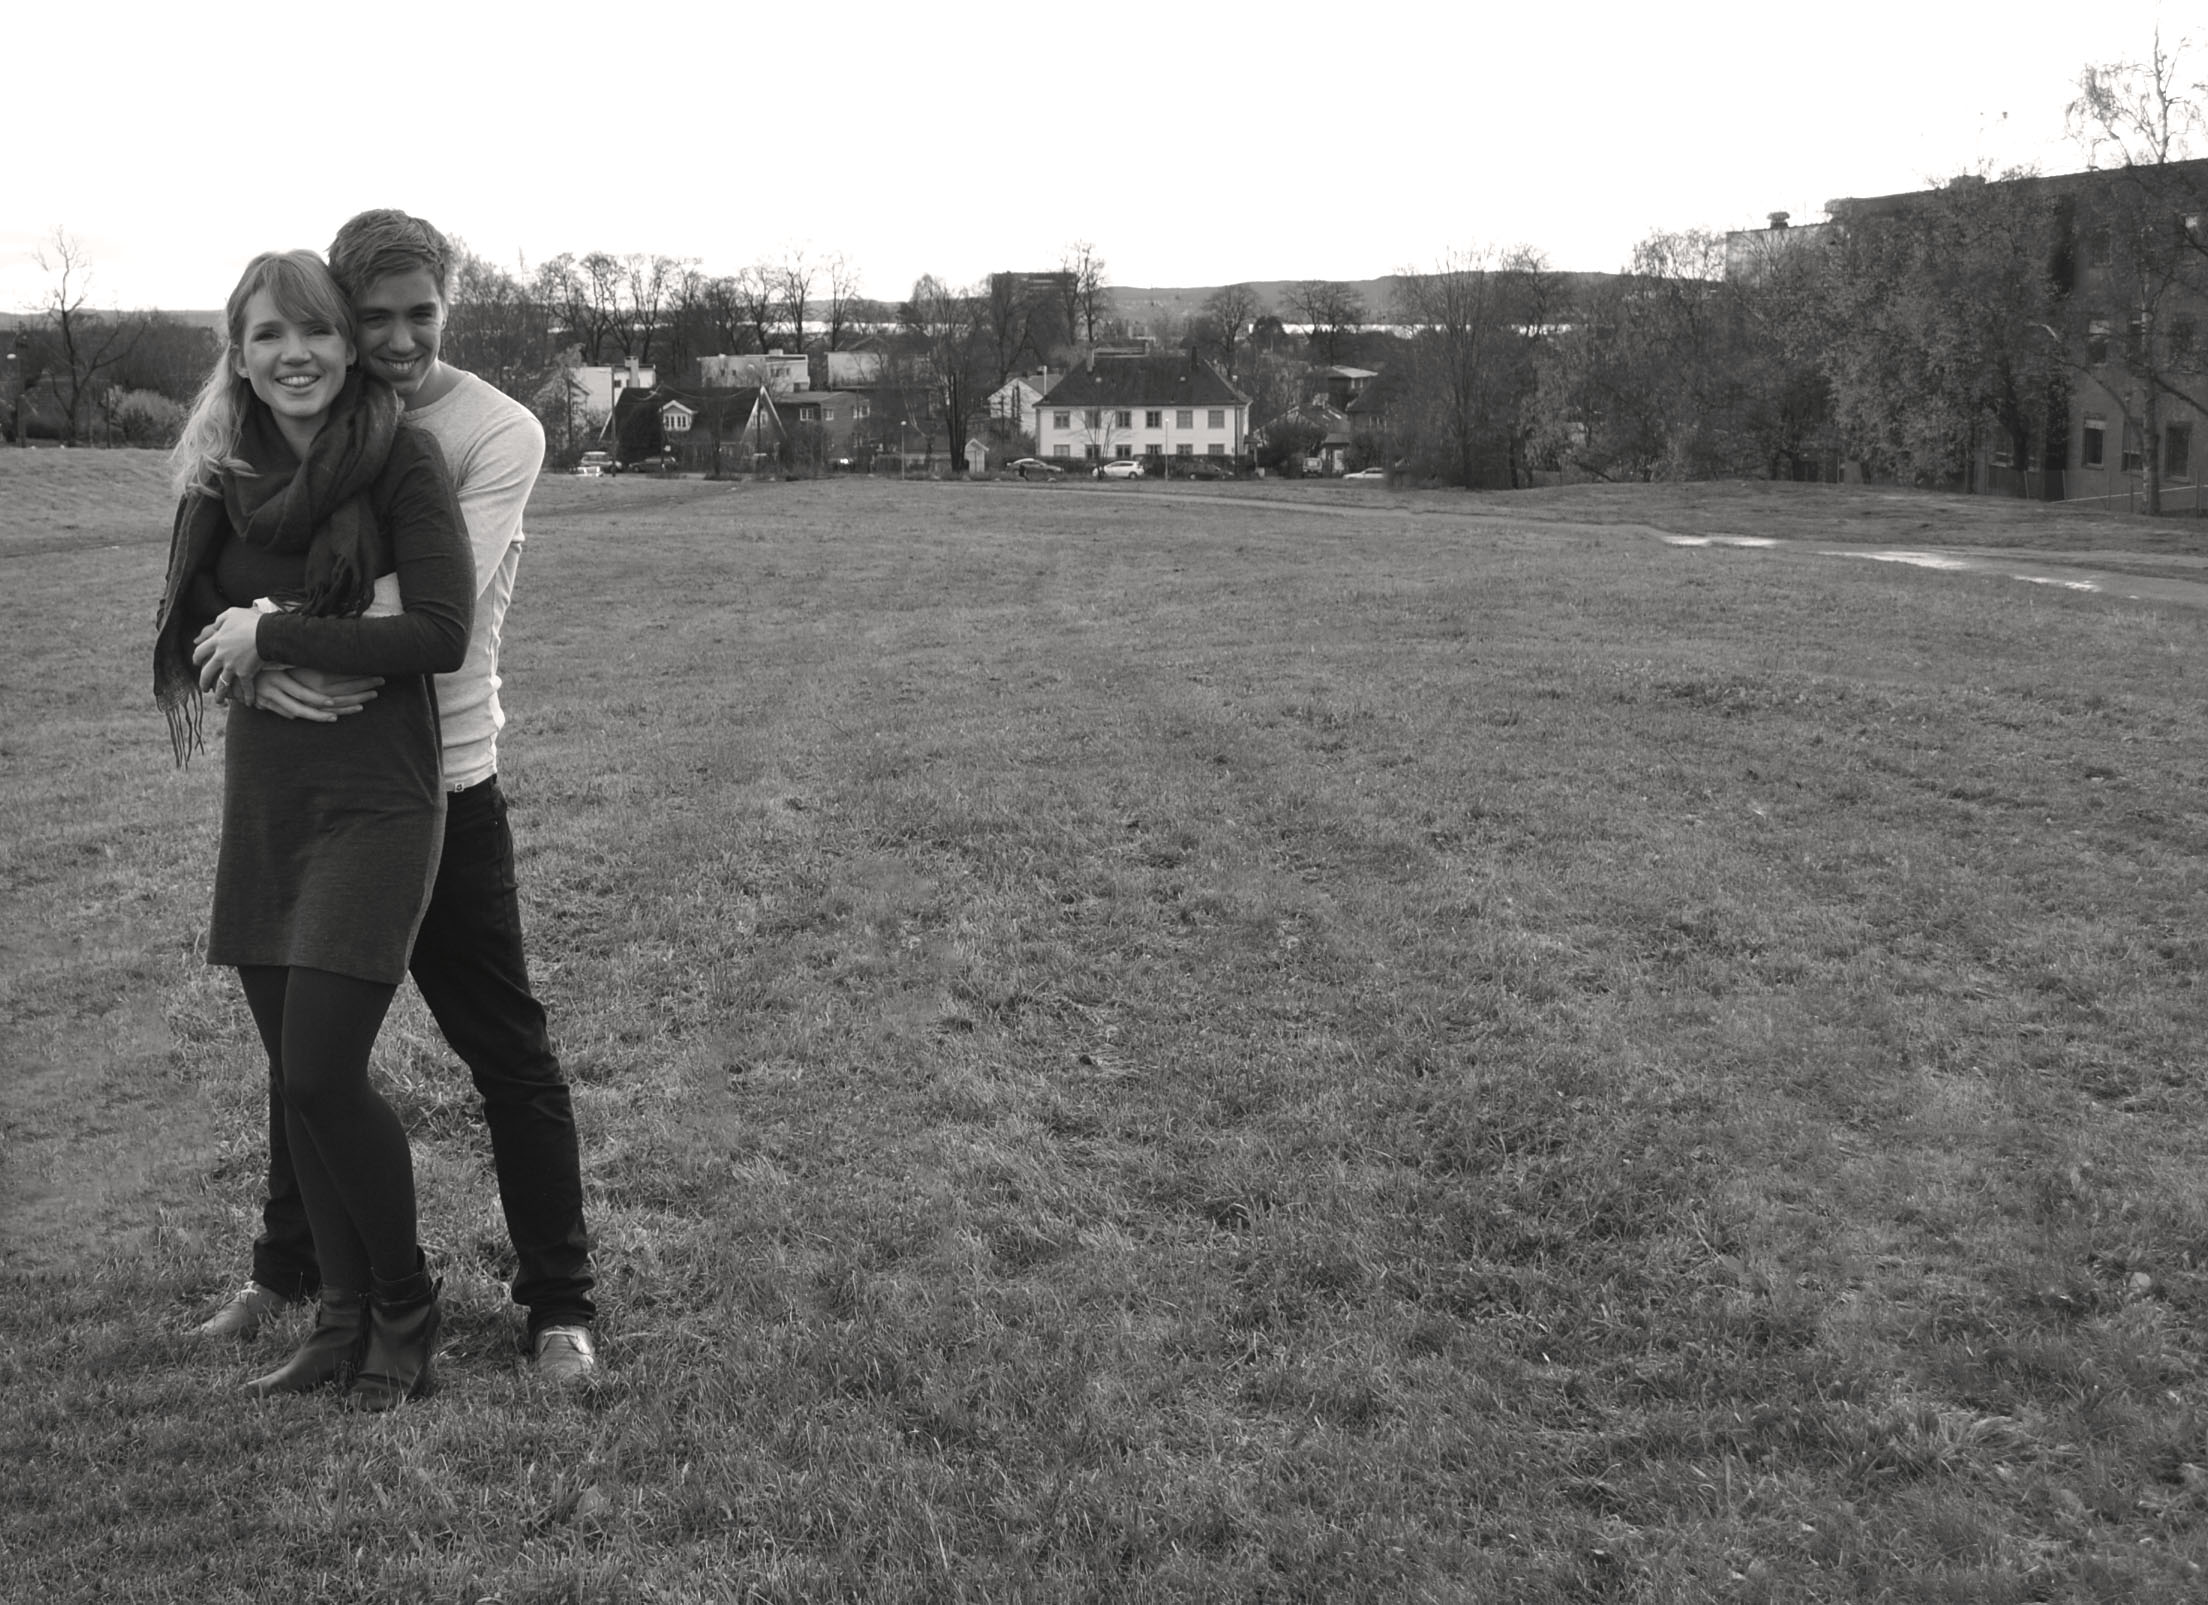
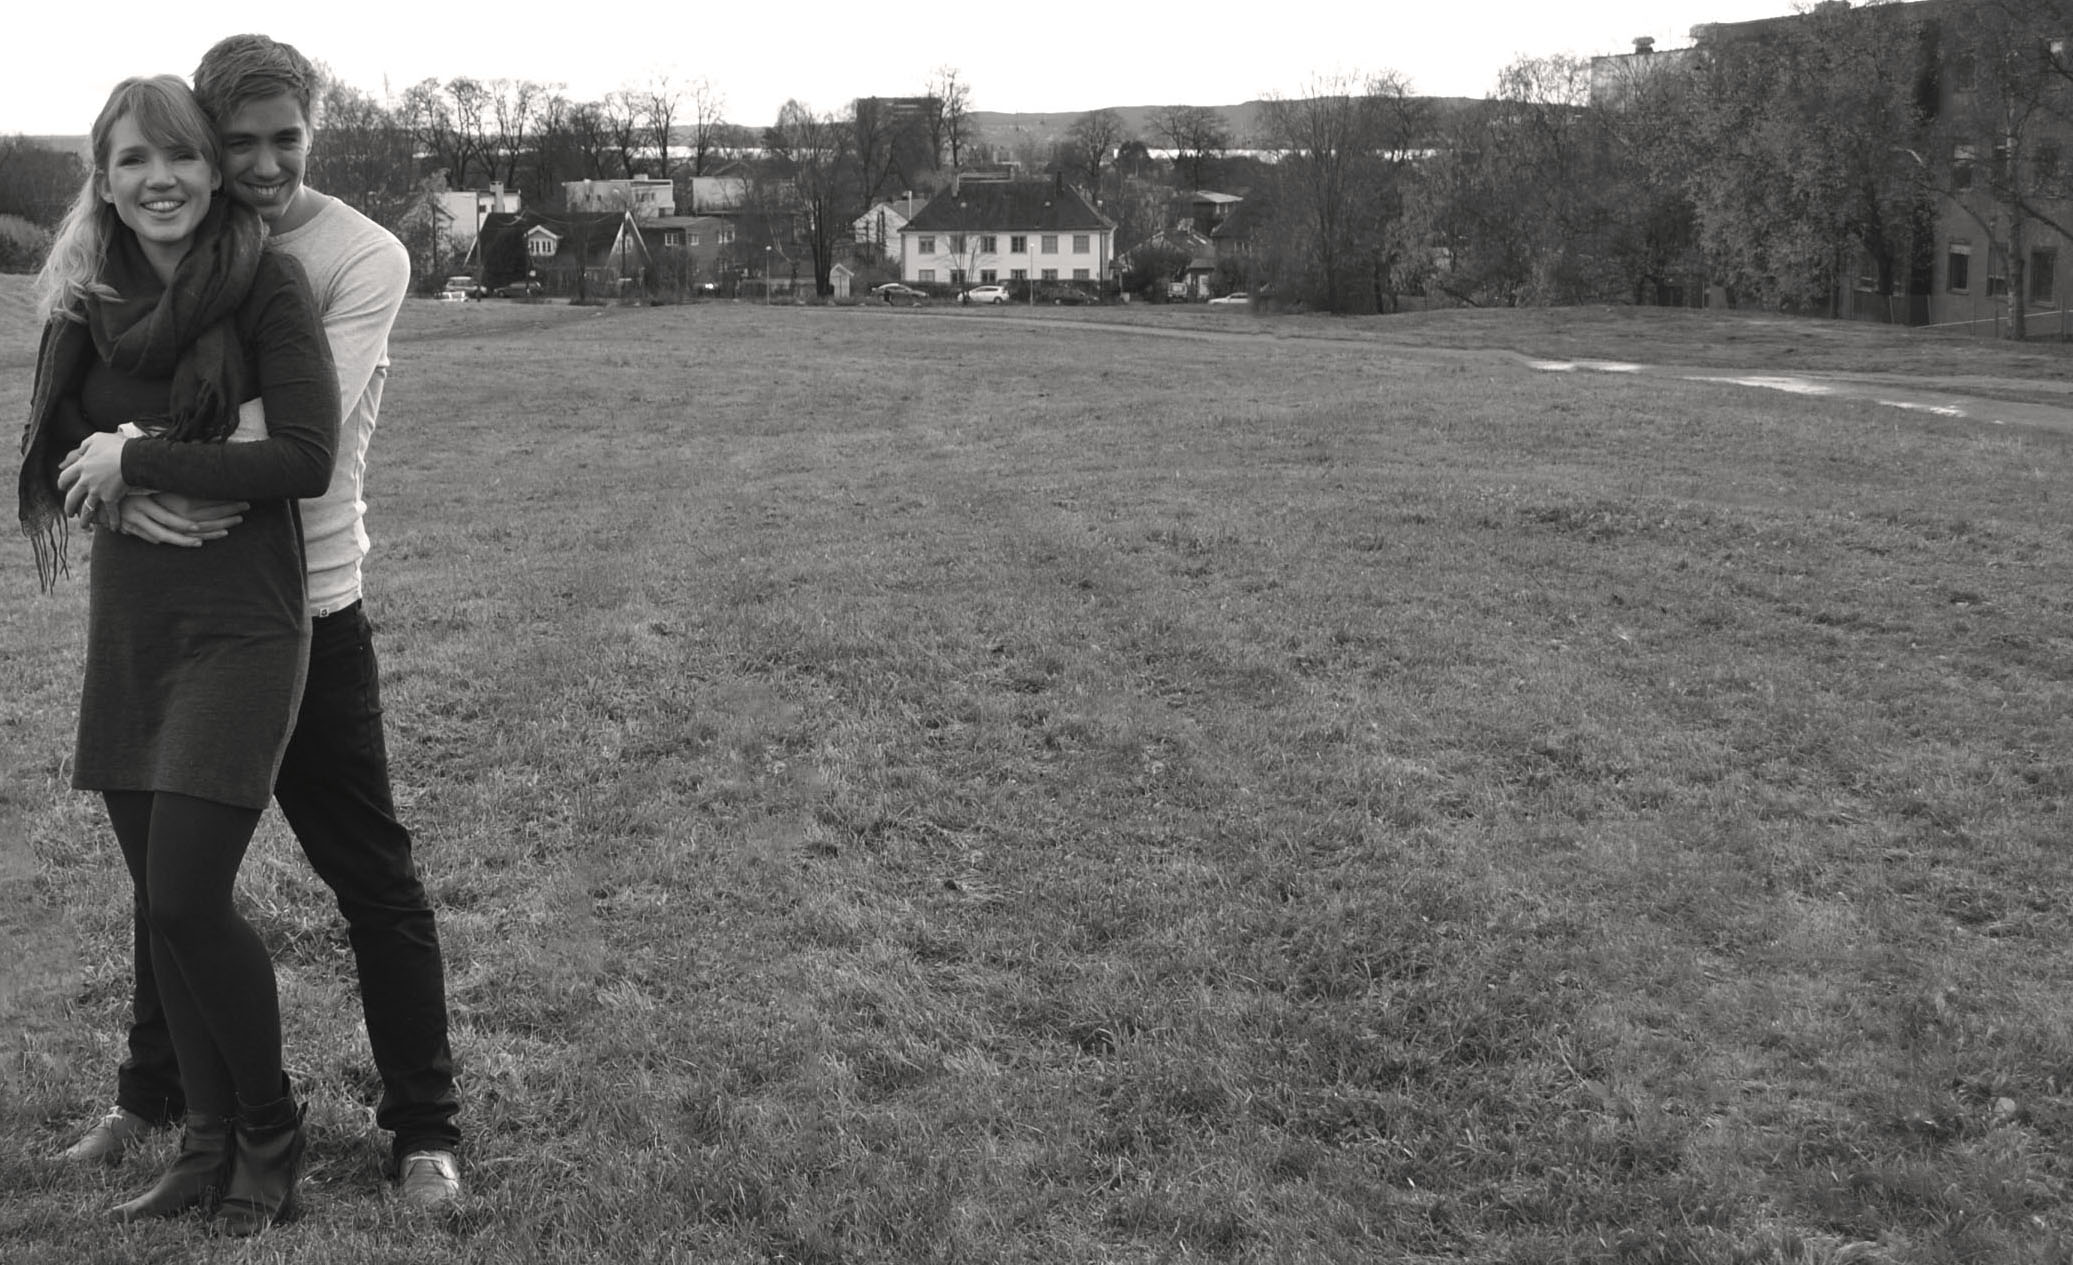
Removed images

diff --git a/public/css/app.css b/public/css/app.css
@@ -240,7 +240,7 @@ h1 {
   background: url('/images/helgaker-sml.jpg') no-repeat center center;
 }
 .main {
-  background: url('/images/forside8.jpg') no-repeat top left fixed;
+  background: url('/images/forside.jpg') no-repeat top left fixed;
 }
 .friday {
   background: url('/images/skogstad-blur.jpg') no-repeat center center fixed;

diff --git a/public/stylesheets/less/slide.less b/public/stylesheets/less/slide.less
@@ -85,7 +85,7 @@
 }
 
 .main {
-    background: url('/images/forside8.jpg') no-repeat top left fixed;
+    background: url('/images/forside.jpg') no-repeat top left fixed;
     //.b-cover;
 }
 
